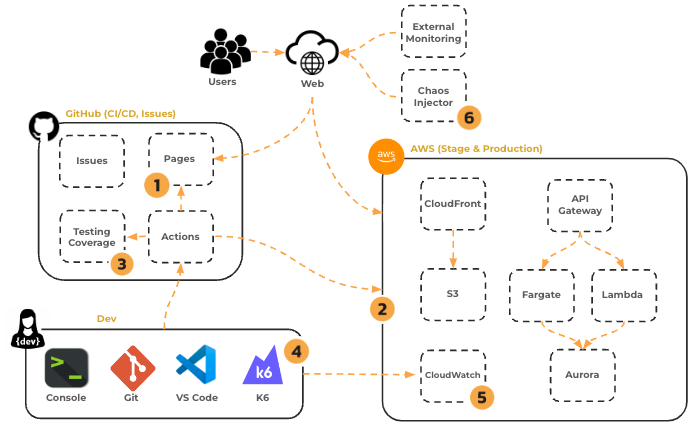
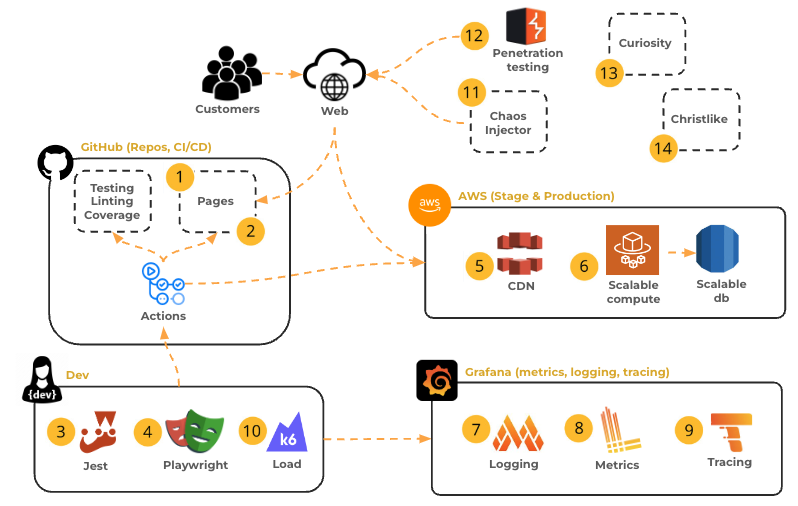
enhance(topics) overview, history, jwt pizza

diff --git a/instruction/history/history.md b/instruction/history/history.md
@@ -1,53 +1,59 @@
-# Introduction
+# A brief history of QA and DevOps
 
-This course covers everything necessary to successfully take an application from the developer's development environment and deliver it into a customer accessible production environment.
+Surprisingly little has changed about how software engineers build an application, but the process of testing and delivering software has changed drastically in the last two decades. In the early days of computing, the expense and complexity of hardware required the application was hosted at the application providers physical location. The customer would then bring their data to the vendor office for processing. The vendor would execute extensive manual testing to make sure the application was behaving properly.
 
-Surprisingly little has changed about how software engineers build an application, but the process of delivering software has changed drastically in the last two decades. In the early days of computing, the expense and complexity of hardware required the customer to bring their data to the vendor office for processing. In the 1960s and 70s, computing solutions became cheaper and so customers started hosting their own hardware at their offices. The software vendor then hired teams of consultants to visit a customer's physical location and install the software on their computers. The consultants would then return later to provide regular maintenance patches and upgrades. When the internet boomed in the late 1990s the hosting of software moved back to the vendor's data center, and access was given to the customer to use the software from their web browser. All of the vendor's software delivery consultants then got new jobs as data center operational staff. The Operations staff managed the data center hardware and controlled how, and when, an application was delivered to the computers running in the data center.
+In the 1960s and 70s, computing solutions became cheaper and so customers started hosting their own hardware at their offices. The software vendor then hired teams of consultants to visit a customer's physical location and deploy and manage the application the customer's computers.
 
-In this model, application engineers were charged with adding customer value to the application. Operations were charged with making sure the application was stable and accessible to the customer. This resulted in a natural conflict of interest between application engineering and operations that was harmful to the interests of both the company and the customer. Application engineers want to quickly build new value. Operations wants to keep things stable. Changes broke existing functionality or destroyed existing data. Stability slowed the deployment of enhancements, security updates, and bug fixes from reaching the customer.
+Oftentimes the consultant would discover bugs that only occurred in the customer's environment and report them back to the vendor. In a way, this began the practice of releasing buggy software to the customer and letting them test the code.
 
-Both aims are good, but when they become entrenched in organizational bureaucracy, the competing goals create a software delivery bottleneck that harms both the customers and the profits of the vendor.
+When the internet boomed in the late 1990s the hosting of software moved back to the vendor's data center, and the customer provided their data over the internet. All of the vendor's consultants then got new jobs as data center operational staff. The operations staff managed the data center hardware and controlled how, and when, an application was delivered to the computers running in the data center.
 
-## Agile and the birth of devops
+In this model, application engineers were charged with adding customer value to the application. Quality assurance and operations staff was charged with making sure the application was stable and accessible to the customer. This resulted in a natural conflict of interest between application engineering and operations that was harmful to the interests of both the company and the customer. Application engineers wanted to quickly build new value. Operations wanted to keep things stable. Changes broke existing functionality or destroyed existing data. Stability slowed the deployment of enhancements, security updates, and bug fixes from reaching the customer.
+
+Both aims were good, but when they become entrenched in organizational bureaucracy, the competing goals created a software delivery bottleneck that harms both the customers and the profits of the vendor.
+
+## Agile and the birth of DevOps and Quality Assurance
 
 Starting in the mid 90s, Agile techniques were having a major impact on how software was developed. Agile methodologies encouraged moving quickly, with small incremental steps that were verified by automated testing, and easily reversible due to quality coding practices and version control.
 
-These practices helped the industry build larger, more complex software, faster. Once we became adept in applying Agile principles to software development, we naturally saw the opportunity to apply Agile principles to the software delivery bottleneck. This resulted in the role of a developer/operations hybrid called **devops** that broke down the wall between building and deploying applications.
+These practices enabled the industry build larger, more complex software, faster. Once we became adept in applying Agile principles to software development and quality assurance, we naturally saw the opportunity to apply Agile principles to the software delivery bottleneck. This resulted in a hybrid role called **Developer Operations (DevOps)** that broke down the walls between building, testing, and deploying applications. The **Quality Assurance (QA)** role was also formalized to automate the independent review of the application's quality.
 
-## Developer operations - Automate application deployment
+## Quality Assurance and developer operations
 
-Initially a devops engineer was an extension of the application engineer's role. Not only did an engineer write software for the application, but they wrote software that automatically deployed it to the customer.
+Initially the QA and DevOps engineer roles were an extension of the application engineer's role. Not only did an engineer write software for the application, but they wrote software that automatically tested and deployed it to the customer.
 
-The key to the success of devops focused on the automation and acceleration of four major goals.
+The key to the success of QA and DevOps focuses on the **automation** and acceleration of four major goals.
 
 1. **Versioning** - Providing easy, trackable, reversible, modifications.
 1. **Testing** - Verify quality.
 1. **Deployment** - Deploying and reversing deployment.
 1. **Management** - Monitoring and controlling all operational aspects of the system.
 
-In order to accomplish these goals, a successful devops team focuses on _drastically removing human involvement_ (**Toil**), and replacing it with _automated processes_ (**Infrastructure as Code**). By solving the software delivery problem with automation, we remove the slow, error prone, human involvement and replace it with processes that run continuously, quickly, and predictably. We also enable the ability to immediately reverse deployments that fail and therefore reduce the impact on the customer. Even the detection of failure is turned over to automated processes. This removes the need for the constant human monitoring of the application.
+In order to accomplish these goals, a successful team focuses on _drastically removing human involvement_ (**Toil**), and replacing it with _automated processes_ (**Infrastructure as Code**). By solving the software delivery problem with automation, we remove the slow, error prone, human involvement and replace it with processes that run continuously, quickly, and predictably. We also enable the ability to immediately reverse deployments that fail and therefore reduce the impact on the customer. Even the detection of failure is turned over to automated processes. This removes the need for the constant human monitoring of the application.
 
-Devops broke down the barrier between application engineering and operations, and replaced it with automation. This resulted in applications being built and delivered to customers at unprecedented speed. While, paradoxically, the application quality and customer satisfaction increased dramatically.
+From one perspective, you can look at the DevOps and QA teams as building internal applications that enable an external customer to successfully use the company's product.
+
+DevOps broke down the barrier between application engineering, testing, and operations, and replaced it with automation. This resulted in applications being built and delivered to customers at unprecedented speed. While, almost paradoxically, the application quality and customer satisfaction increased dramatically.
 
 ## Cloud services - Automate hardware deployment
 
-The next revolution came in the early 2000s when cloud services such as Amazon Web Services (AWS) started providing elastic computing, large storage capacity, managed databases, and global networking solutions. These services were accessible via application programming interfaces (APIs). That meant they were a perfect fit for the devops automation mindset. Previously a devops engineer focused on automating application building, testing, deployment, and management. With cloud services, the devops engineer could also automate the infrastructure scale, capacity, and performance characteristics.
+The next revolution came in the early 2000s when cloud services such as Amazon Web Services (AWS) started providing elastic computing, large storage capacity, managed databases, and global networking solutions. These services were accessible via application programming interfaces (APIs). That meant they were a perfect fit for the QA/DevOps automation mindset. Previously the focus was on automating application building, testing, deployment, and management. With cloud services, the DevOps and QA engineer could also automate the infrastructure scale, capacity, and performance characteristics.
 
-In many companies this almost completely removed the role of an operations department from the software delivery management process. No longer did a company need to build and manage a costly data center, along with the manually deployment of software and hardware. A small team of software engineers could piece together an automated process that would remove the human element from the process and greatly increase the velocity of application development, deployment, customer satisfaction, and profits.
+In many small companies this removed the role of an operations and testing department from the software delivery management process. No longer did a company need to build and manage a costly data center, along with the manually deployment of software and hardware. A small team of software engineers could piece together an automated process that would remove the human element from the process and greatly increase the velocity of application development, deployment, customer satisfaction, and profits.
 
 ## Site reliability engineering
 
-As the idea of devops grew, it started to become its own role within large organizations. This resulted in dedicated devops teams that worked in concert with application engineers to deliver software.
+As the idea of DevOps grew, it started to become its own role within large organizations. This resulted in dedicated DevOps teams that worked in concert with application engineers to deliver software.
 
-For example, Google codified devops practices into a Site Reliability Engineer (SRE) role. This is an independent organization within Google that seeks to create stability for the customer while increasing velocity of new feature delivery. They have even written multiple [books](https://sre.google/books/) on the subject.
+For example, Google codified DevOps practices into a Site Reliability Engineer (SRE) role. This is an independent organization within Google that seeks to create stability for the customer while increasing velocity of new feature delivery. They have even written multiple [books](https://sre.google/books/) on the subject.
 
 ## Platform engineering
 
-As devops built more and more infrastructure to automate the delivery of software, a set of best practices and tools emerged. This resulted in centralized refinement of those practices and tools, and created the **Platform Engineer** role. A platform engineering team serves as a service team that provides the tools that an application team needs to get their software into production.
+As DevOps built more and more infrastructure to automate the delivery of software, a set of best practices and tools emerged. This resulted in centralized refinement of those practices and tools, and created the **Platform Engineer** role. A platform engineering team serves as a service team that provides the tools that an application team needs to get their application into production.
 
-## Software delivery goals
+## Application delivery goals
 
-Application, devops, site reliability, or platform engineers all share the same primary goals.
+Application, DevOps, site reliability, or platform engineers all share the same primary goals.
 
 1. Optimize customer satisfaction, velocity, scalability, and cost.
 1. Treat testing, deployment, and management as a programming problem.

diff --git a/instruction/jwtPizza/jwtPizza.md b/instruction/jwtPizza/jwtPizza.md
@@ -1,0 +1,100 @@
+# JWT Pizza
+
+![JWT Pizza](jwtPizzaPhone.png)
+
+In order for us to master the concepts of Quality Assurance and Developer Operations we will work on a simple web application named JWT Pizza (pronounced Jot Pizza).
+
+JWT Pizza provides the valuable service of exchanging BitCoin for virtual pizzas that are represented by a cryptographically signed token ([JWT](https://jwt.io/introduction)). JWT Pizza also provides that opportunity to create a franchise and cash in on the 🍕 virtual pizza craze.
+
+An external developer team has written the code for the application and you are in charge of the QA and DevOps roles for writing the tests, deploying to, and managing the production environment.
+
+You shouldn't assume that the external development engineers have done a perfect job with JWT Pizza. In fact, there are several known bugs and security vulnerabilities in the code. Part of your job will be to discover and report these problems.
+
+## JWT Pizza architecture
+
+The 10,000 foot overview of the JWT Pizza application consists of the following pieces:
+
+- **jwtPizza** - React frontend representing the website. Customers can order pizzas, review purchases. Administrators create and manage franchises. Franchisees can add stores and review profits.
+- **jwtPizzaService** - Express backend that provides all of the endpoints necessary to manage users, franchises, and pizza orders.
+- **jwtPizzaFactory** - External headquarters service that generates and validates JWTs representing a pizza order.
+
+```mermaid
+graph TB;
+    subgraph Your JWT Pizza
+    jwtPizza-->jwtPizzaService
+    jwtPizzaService-->database
+    end
+    subgraph Headquarters
+    jwtPizzaService-->jwtPizzaFactory
+    end
+```
+
+## JWT Pizza frontend
+
+The following is the sitemap for JWT Pizza as provided by the product team. Note that while JWT Pizza is a fairly simple website, it has a significant amount of components and views that will require testing.
+
+Note that interfaces support a breadcrumb that allows a user to view and backtrack their navigation.
+
+```mermaid
+graph TB;
+    Home-->Login
+    Home-->Logout
+    Home-->Register
+    Home-->History
+    Home-->About
+    Home-->Menu
+    Home-->AdminDashboard
+    Home-->FranchiseDashboard
+    Register<-->Login
+    AdminDashboard-->CreateFranchise
+    AdminDashboard-->CloseFranchise
+    AdminDashboard-->CloseStore
+    FranchiseDashboard-->CreateStore
+    FranchiseDashboard-->CloseStore
+    Home-->DinnerDashboard
+    DinnerDashboard-->Menu
+    Menu-->Payment
+    Payment-->Login
+    Payment-->Delivery
+    Delivery-->Verify
+    Delivery-->Menu
+```
+
+## JWT Pizza Service
+
+The chief architect for the JWT Pizza Service defined the following endpoints for the service. You can also obtain the endpoints using the undocumented [docs](https://pizza.cs329.click/docs) endpoint.
+
+| Method | path                                       | 🔐  | description                               | example                                                                                                                                                                                                         |
+| ------ | ------------------------------------------ | :-: | ----------------------------------------- | --------------------------------------------------------------------------------------------------------------------------------------------------------------------------------------------------------------- |
+| POST   | /api/auth                                  | no  | Register a new user                       | curl -X POST -c cookies.txt localhost:3000/api/auth -d '{\"name\":\"pizza diner\", \"email\":\"d@jwt.com\", \"password\":\"a\"}' -H 'Content-Type: application/json'"                                           |
+| PUT    | /api/auth                                  | no  | Login existing user                       | curl -X PUT -c cookies.txt localhost:3000/api/auth -d '{\"email\":\"a@jwt.com\", \"password\":\"a\"}' -H 'Content-Type: application/json'"                                                                      |
+| DELETE | /api/auth                                  | no  | Logout a user                             | curl -X DELETE -c cookies.txt localhost:3000/api/auth"                                                                                                                                                          |
+| GET    | /api/order/menu                            | no  | Get the pizza menu                        | curl localhost:3000/order/menu"                                                                                                                                                                                 |
+| GET    | /api/order                                 | yes | Get the orders for the authenticated user | curl -b cookies.txt -X GET localhost:3000/api/order"                                                                                                                                                            |
+| POST   | /api/order                                 | yes | Create a order for the authenticated user | curl -b cookies.txt -X POST localhost:3000/api/order -H 'Content-Type: application/json' -d '{\"franchiseId\": 1, \"storeId\":1, \"items\":[{ \"menuId\": 1, \"description\": \"Veggie\", \"price\": 0.05 }]}'" |
+| GET    | /api/franchise                             | no  | List all the franchises                   | curl -b cookies.txt localhost:3000/api/franchise"                                                                                                                                                               |
+| GET    | /api/franchise/:userId                     | yes | List a user's franchises                  | curl -b cookies.txt localhost:3000/api/franchise/1"                                                                                                                                                             |
+| POST   | /api/franchise                             | yes | Create a new franchise                    | curl -b cookies.txt -X POST localhost:3000/api/franchise -H 'Content-Type: application/json' -d '{\"name\": \"pizzaPocket\"}'"                                                                                  |
+| DELETE | /api/franchise/:franchiseId                | yes | Delete a franchises                       | curl -X DELETE -b cookies.txt localhost:3000/api/franchise/1"                                                                                                                                                   |
+| POST   | /api/franchise/:franchiseId/store          | yes | Create a new franchise store              | curl -b cookies.txt -X POST localhost:3000/api/franchise/1/store -H 'Content-Type: application/json' -d '{\"franchiseId\": 1, \"name\":\"SLC\"}'"                                                               |
+| DELETE | /api/franchise/:franchiseId/store/:storeId | yes | Delete a store                            | curl -X DELETE -b cookies.txt localhost:3000/api/franchise/1/store/1"                                                                                                                                           |
+
+### JWT Pizza Factory
+
+The chief architect for the JWT Pizza Factory defined the follow endpoints for the service.
+
+| Method | path              | 🔐  | description            | example                                                                                                                                                                                                                    |
+| ------ | ----------------- | :-: | ---------------------- | -------------------------------------------------------------------------------------------------------------------------------------------------------------------------------------------------------------------------- |
+| POST   | /api/order        | yes | Create a JWT pizza     | curl -X POST localhost:3000/api/order -H 'authorization: Bearer a42nkl3fdsfagfdagnvcaklfdsafdsa9' -d '{\"diner\": {\"name\":\"joe\"}, \"order\": {\"pizzas\":[\"pep\", \"cheese\"]}}' -H 'Content-Type: application/json'" |
+| POST   | /api/order/verify | yes | Verifies a pizza order | curl -X POST localhost:3000/api/order/verify -d '{\"jwt\":\"JWT here\"}' -H 'Content-Type: application/json'"                                                                                                              |
+
+## Application team deployment plan
+
+The application team plans on the following release phases to the QA and DevOps teams. The deliverables will be available via different GitHub repositories. You are expected to **fork** these repositories and use them for your testing and deployment needs.
+
+Note that the application team may release updates to their original deliverable. This will require you to merge your fork with their updates. As long as you do not manipulate the core application code beyond what is necessary to test and deploy the application this should not require you to resolve and merge conflicts.
+
+| Order | Deliverable              | Notes                                                                                                                                                                                                                                                                                                         | Repo                                                                |
+| :---: | ------------------------ | ------------------------------------------------------------------------------------------------------------------------------------------------------------------------------------------------------------------------------------------------------------------------------------------------------------- | ------------------------------------------------------------------- |
+|  1.   | **JWT Pizza (frontend)** | By using the reference version of the _JWT Pizza Service_ that is provided by [JWT headquarters](https://jwt-pizza-service.cs329.click) you can deploy the frontend while you are waiting for the application team to deliver the backend service.                                                            | [JWT Pizza](https://github.com/devops329/jwt-pizza)                 |
+|  2.   | **JWT Pizza Service**    | With this deliverable you can change your frontend to use your deployment of this service rather than the [JWT headquarters](https://jwt-pizza-service.cs329.click) version. Note that you are required to obtain an API key from JWT headquarters before you will be able to create a JWT pizza order token. | [JWT Pizza Service](https://github.com/devops329/jwt-pizza-service) |

diff --git a/instruction/overview/overview.md b/instruction/overview/overview.md
@@ -1,19 +1,61 @@
 # Overview
 
+This course covers everything necessary to successfully take an application from the developer's development environment and deliver it into a customer accessible production environment.
+
+![DevOps Cycle](devopsCycle.png)
+
+> _Source: [hubspot.com](https://blog.hubspot.com/website/what-is-devops)_
+
+Beyond the work necessary to build the actual application, there are two additional roles that are required to delivery the application to a customer.
+
+1. **Quality Assurance (QA)** - Quality assurance provides an independent review of the development team's deliverables. Their job is to provide assurance that the application follows the design specification and is free from any critical issues that would harm the company or its customers.
+1. **Developer Operations (DevOps)** - DevOps provides the automated pipeline that takes the development team's deliverables and puts them into the hands of the customer. The term DevOps stems from the idea that the team is taking a developer mindset for deployment operations. In effect building an application for product delivery.
+
+In a small company the development team will often assume the roles of QA and DevOps. However, the function of these teams is often more successful then they operate independently.
+
+It assumed that you already have the skill necessary to build a reasonable web application. What this course will teach you is how to test, deploy, and manage an application in production.
+
+Your efforts will focus on playing the role of both a QA and DevOps engineer. You will ensure the quality of the software provided by the development team, and deploy the software to a production environment.
+
+## Your work in the course
+
+The class will follow a cycle that likes this:
+
+1. The development team will complete a phase of their application development and commit the results to GitHub.
+1. The QA team (_i.e. You_) will create the tests and analyze the code in order to assure its **quality**.
+1. The DevOps team (_i.e. You again_) will create the pipeline to **deploy** the application, **monitor** its use, and address incidents as they occur.
+
+## Your deliverables
+
+Multiple phases of development releases and changes to the devOps pipeline will occur as different technologies and strategies are employed. As part of this process, you will create the following deliverables that demonstrate your mastery of the course concepts.
+
+1. **Manual deploy** - Deploy frontend to GitHub Pages manually
+1. **Automated deploy** - Deploy frontend to GitHub Pages using GitHub Actions
+1. **Unit test** - Unit test backend and analysis using Jest and GitHub Actions
+1. **Integration test** - Integration test and analysis frontend using Playwright and GitHub Actions
+1. **CDN deploy** - Deploy frontend to AWS CloudFront
+1. **Scalable deploy** - Deploy backend to AWS Fargate and Aurora
+1. **Metric** - Provide metrics with Grafana Mimir
+1. **Log** - Provide logging with Grafana Loki
+1. **Trace** - Provide execution tracing with Grafana Tempo
+1. **Load test** - Execute end to end load testing with K6
+1. **Failure test** - Failure test due to chaos injection
+1. **Penetration test** - Penetration testing using Burp Suite
+1. **Curiosity report** - Independent research on a QA/DevOps topic
+1. **Christlike introspection** - Introspection into your relationship with the divine
+
+The following diagram represents the relationship between your deliverables.
+
 ![overview](overview.png)
-
-Describe how the class works. The idea is that you have already learned how to build software. What you don't know is how to test, deploy, and manage the software.
-
-- In this class you are going to test, deploy, and manage a production `product` that someone else has built
-- The Dev team will be upgrading the `product`
-- You are joining two teams this semester
-  - The QA team
-  - The DevOps team
-- What is expected of the students
-- How they do the mastery projects
-- How they submit
-- How they are evaluated
 
 ## Outcomes
 
-- What are the outcomes and what they need to do in order to demonstrate mastery
+By the end of the course you can expect the following outcomes in your personal development.
+
+- **Quality**: Implement comprehensive automated testing strategies, including unit, UI, E2E, performance, and load testing.
+- **Deployment**: Deploy various automated CI/CD pipeline strategies to reliably deliver software that is resilient, scalable, and secure.
+- **Management**: Monitor, detect anomalies, alter, and automatically correct system behavior.
+- **Curious**: Characterize and address gaps in understanding related to DevOps techniques and principles.
+- **Creative**: Discuss and generate alternate DevOps designs.
+- **Collaborative**: Work as a team to discover DevOps design weaknesses.
+- **Christlike**: Strive for divine inspiration for, and ability to apply capabilities to, celestial pursuits.

diff --git a/instruction/modules.md b/instruction/modules.md
@@ -2,9 +2,9 @@
 
 ## Getting started
 
-- 🚧 [History](history/history.md)
-- 🚧 [Overview](overview/overview.md)
-- 🚧 [Pizza Shop](pizzaShop/pizzaShop.md)
+- 🔵 [Overview](overview/overview.md)
+- 🔵 [History](history/history.md)
+- 🔵 [JWT Pizza](jwtPizza/jwtPizza.md)
 - ☑ 🚧 [AWS Account](awsAccount/awsAccount.md)
 - 🚧 Eternal learning
 - 🚧 [GitHub](gitHub/gitHub.md)
@@ -30,7 +30,7 @@
 
 ## Static deployment
 
-- 🚧 [Pizza Shop Client](pizzaShopClient/pizzaShopClient.md)
+- 🚧 [JWT Pizza Client](jwtPizzaClient/jwtPizzaClient.md)
 - 🚧 [Static deployment](staticDeployment/staticDeployment.md)
 - 🚧 [Git Branches](gitBranches/gitBranches.md)
 - ☑ 🚧 [GitHub Pages](gitHubPages/gitHubPages.md)
@@ -97,5 +97,6 @@
 - 🚧 SLO, RTO, RPO
 - 🚧 Chaos injection
 - 🚧 Post mortem
-- 🚧 Penetration testing
+- 🚧 [Penetration testing](penetrationTesting/penetrationTesting.md)
+- 🚧 [Burp Suite](burpSuite/burpSuite.md)
 - 🚧 Eternal learning

diff --git a/bugs.md b/bugs.md
@@ -14,7 +14,10 @@
 1. Inject on order description
 1. Escalation on add user with a given role
 1. Doesn't delete cookie on logout
+   - Fixed: res.clearCookie('token');
 1. Reveals config `server: Express`
 1. If you use the same name for creating a franchise it will leak the SQL error
 1. Returns code stack with error
 1. Docs page has the demo data user's email and password
+1. Does not secure cookies
+   - `res.cookie('token', token, { secure: true, httpOnly: true, sameSite: 'strict' });`

diff --git a/instruction/jwtPizzaClient/jwtPizzaClient.md b/instruction/jwtPizzaClient/jwtPizzaClient.md
@@ -1,6 +1,6 @@
-# Pizza Shop Client
+# JWT Pizza Client
 
-![pizza shop logo](../../pizzaShopLogo.png)
+![pizza shop logo](../../jwt-pizza-logo-sm.png)
 
 The development team has given you access to their frontend client application. You need to fork the code to your GitHub account, run it locally and study how it works. Once you are comfortable with the code, you then need to put on your QA hat and start writing tests.
 

diff --git a/instruction/penetrationTesting/penetrationTesting.md b/instruction/penetrationTesting/penetrationTesting.md
@@ -1,0 +1,3 @@
+# Penetration Testing
+
+[PortSwigger Academy](https://portswigger.net/web-security/all-topics)

diff --git a/instruction/burpSuite/burpSuite.md b/instruction/burpSuite/burpSuite.md
@@ -1,0 +1,3 @@
+# Burp Suite
+
+[Download](https://portswigger.net/burp/communitydownload)
